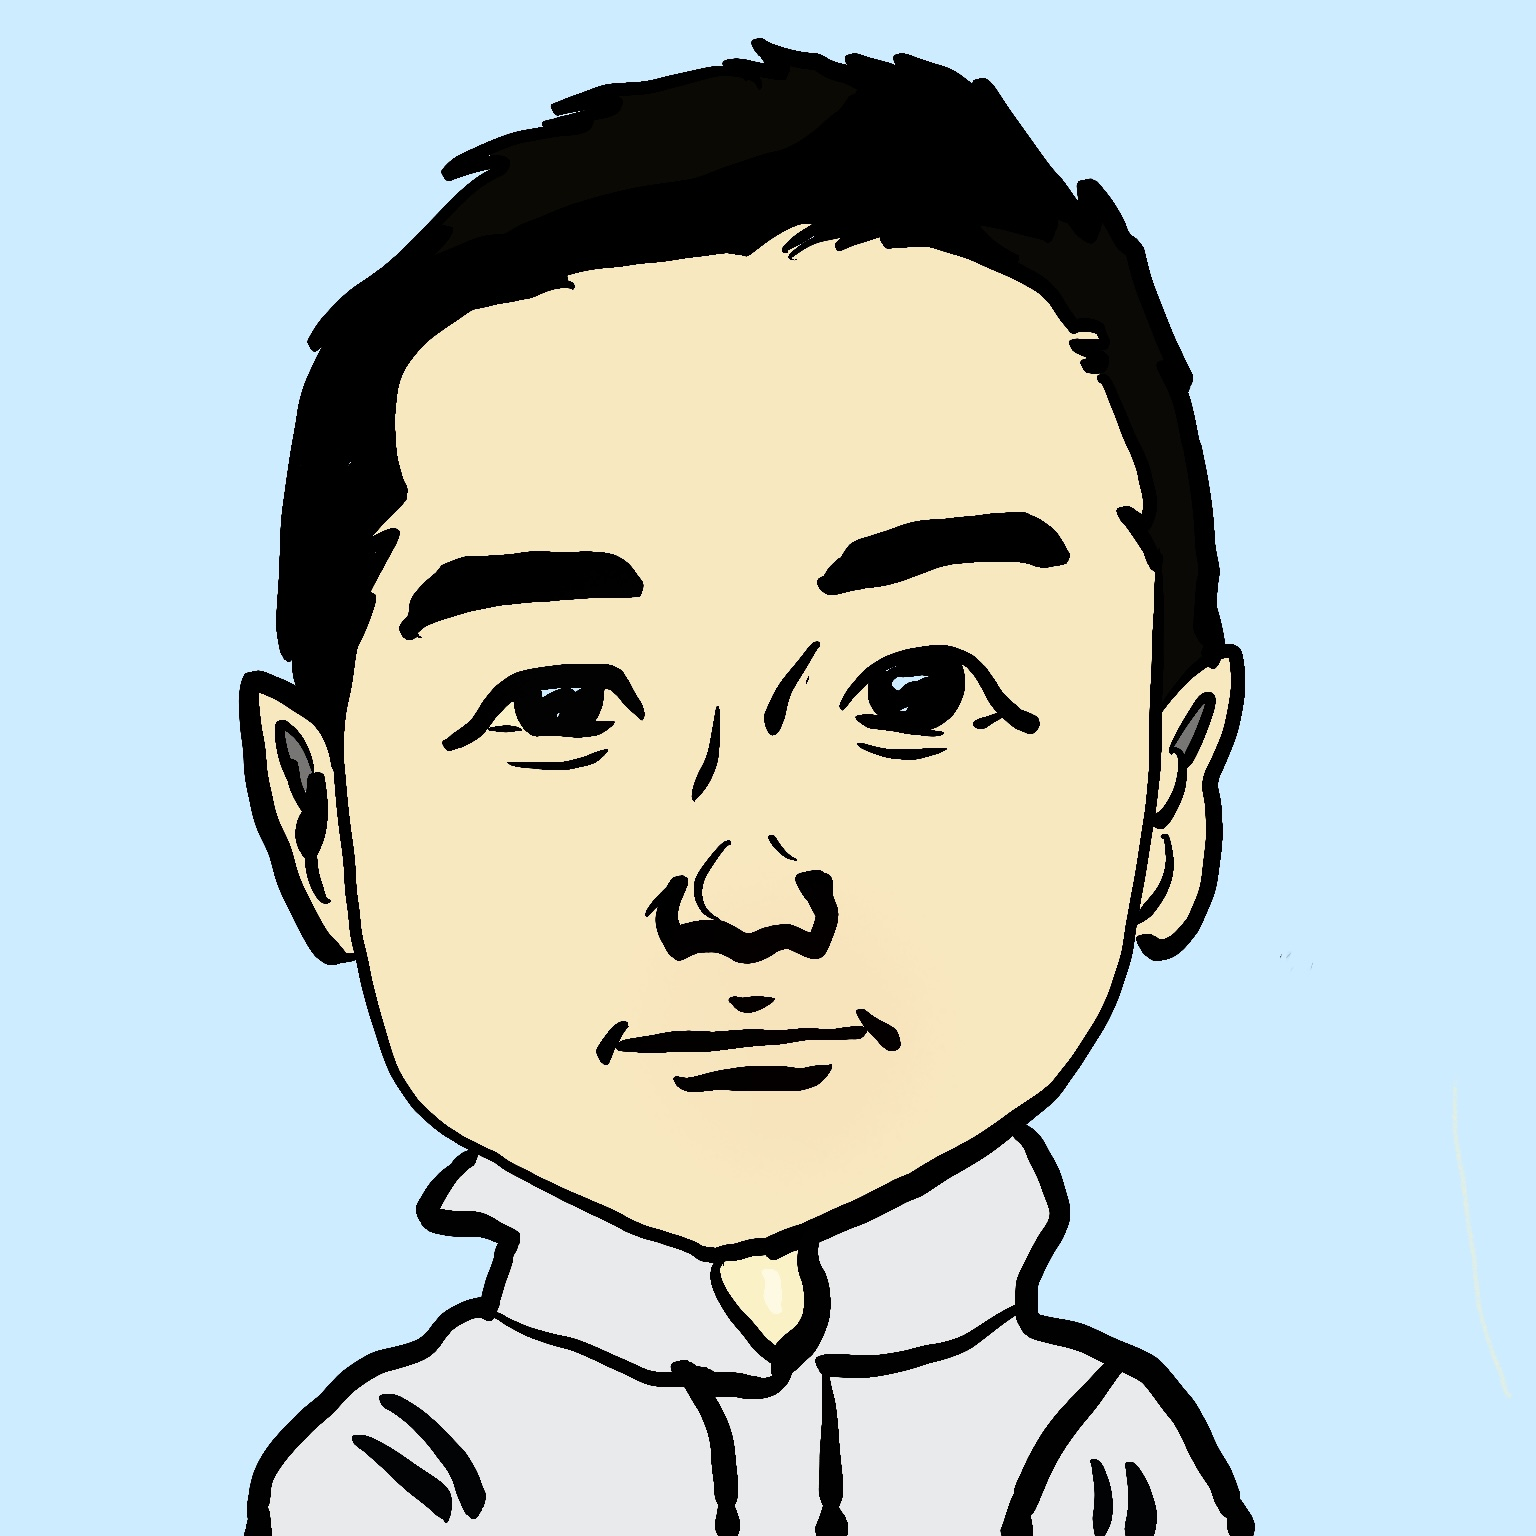
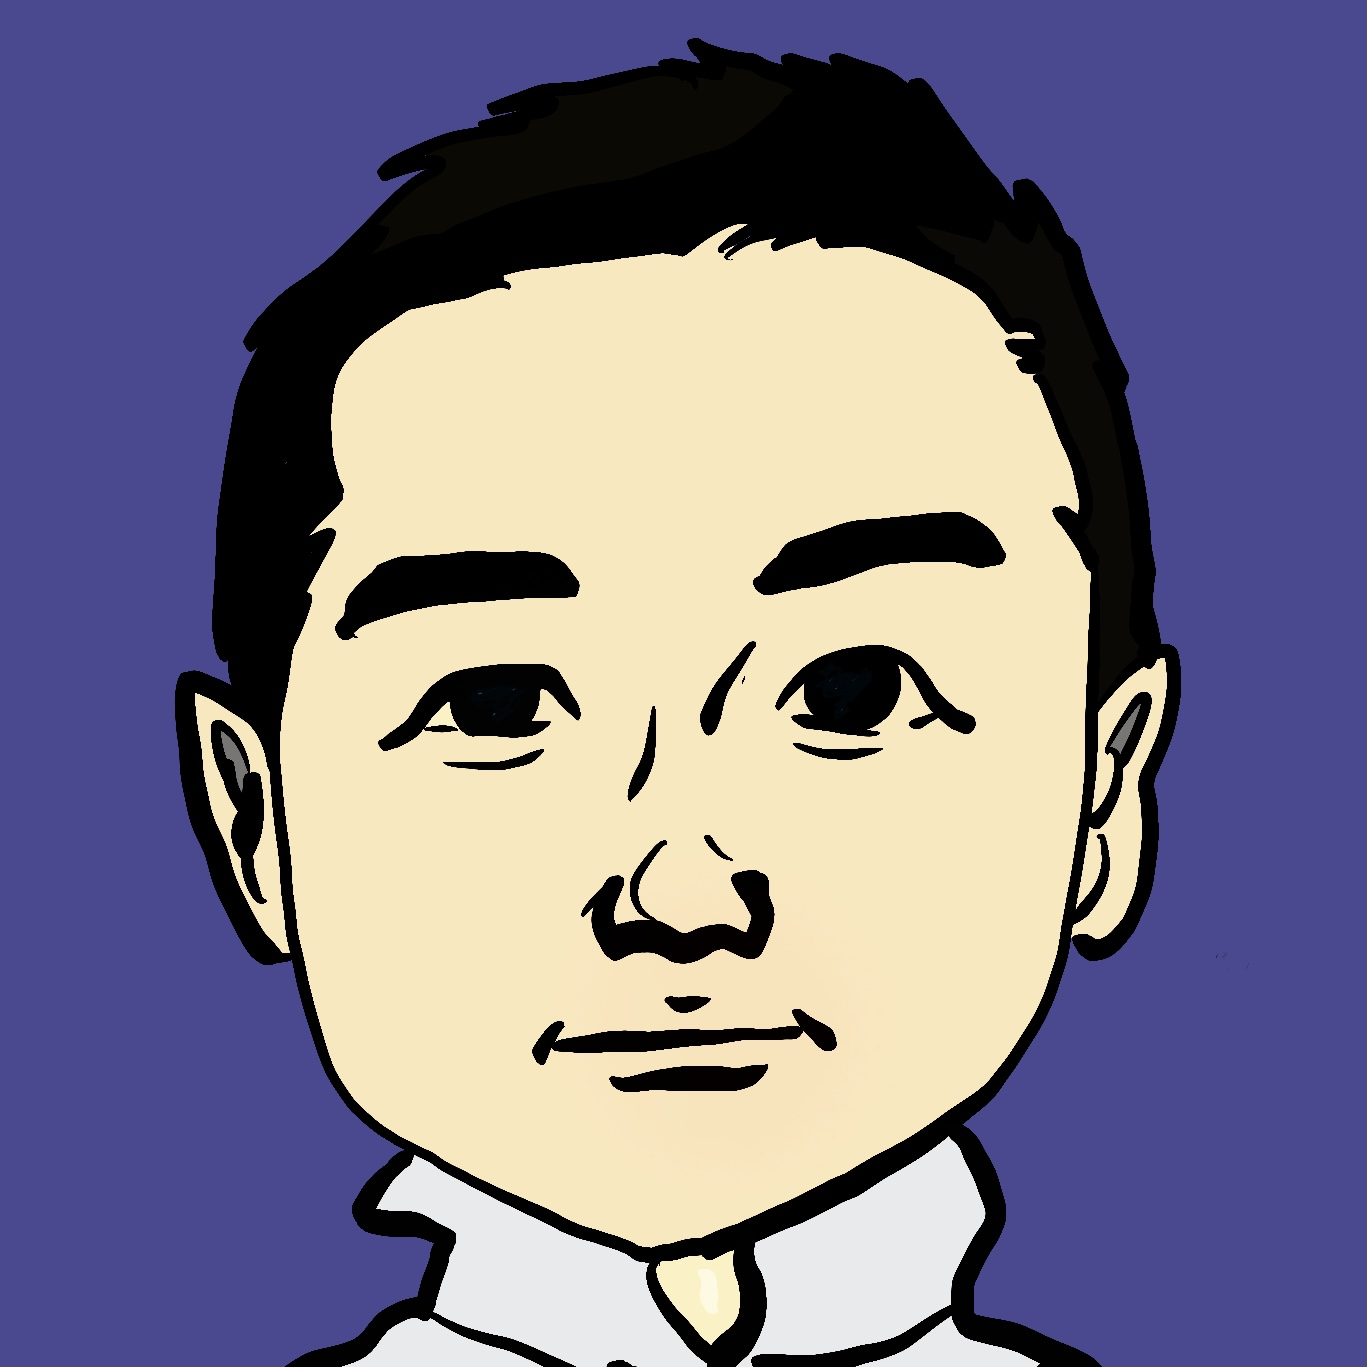
アイキャッチ画像変更

diff --git a/pages/post/[postname].js b/pages/post/[postname].js
@@ -19,6 +19,7 @@ export default function BlogPost({ siteTitle, frontmatter, markdownBody }) {
         </div> */}
         <article>
           <h1>{frontmatter.title}</h1>
+          <section>
           {frontmatter.hero_image && (
             <img
               src={frontmatter.hero_image}
@@ -26,6 +27,7 @@ export default function BlogPost({ siteTitle, frontmatter, markdownBody }) {
               alt={frontmatter.title}
             />
           )}
+          </section>
           <div>
             <ReactMarkdown source={markdownBody} />
           </div>
@@ -34,16 +36,49 @@ export default function BlogPost({ siteTitle, frontmatter, markdownBody }) {
       <style jsx>{`
         article {
           width: 100%;
-          max-width: 800px;
+          max-width: 700px;
+          position: relative;
         }
+        
         h1 {
           font-size: 2rem;
         }
         h3 {
           font-size: 1.5rem;
         }
+        section {
+          text-align: center;
+          background-image: url('../static/2021081600.png');
+          background-color: #4a488e;
+          width: auto;
+          height: 300px;
+          position: relative;
+          display: flex;
+          align-items: center;
+          -webkit-box-pack: center;
+          justify-content: center;
+        }
+        section:before,
+        section:after {
+          width: calc(100% - 20px);
+          height: 0;
+          display: block;
+          position: absolute;
+          left: 0;
+          content: "";
+        }
+        section:before{
+          border-bottom: solid 20px #4a488e;
+          border-right: solid 20px transparent;
+          bottom: 100%;
+        }
+        // section:after{
+        //   border-top: solid 20px #ff9627;
+        //   border-left: solid 20px transparent;
+        //   top: 100%;
+        // }
         .hero {
-          width: 100%;
+          width: 110px;
         }
         .back {
           width: 100%;
